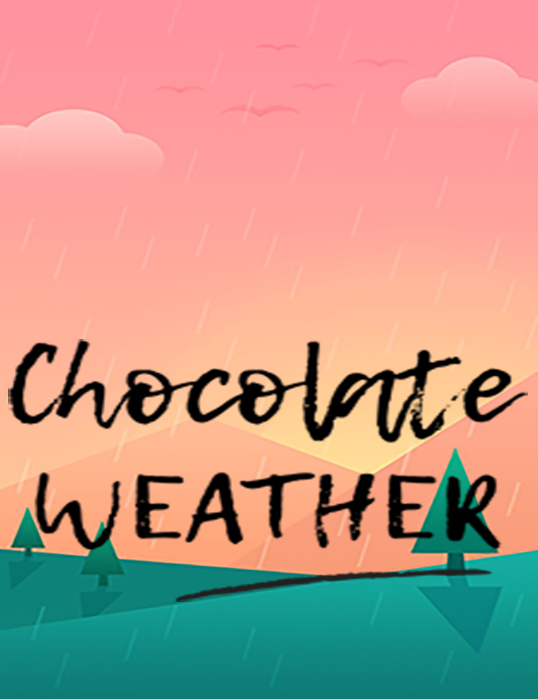
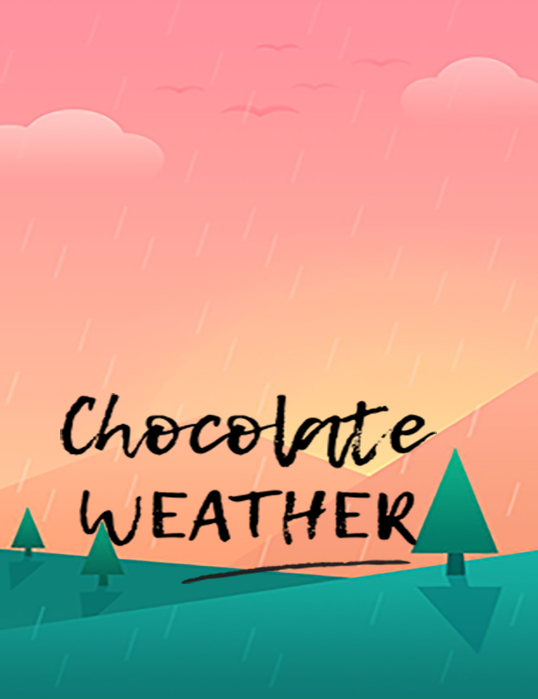
The desing works now

Changed region(s): [[0.0, 0.4807, 0.9814, 0.8712]]

diff --git a/src/components/weather.js b/src/components/weather.js
@@ -4,23 +4,28 @@ class Weather extends React.Component{
     render(){
 
         let chocolateMsg;
-        if(this.props.clouds < 5){
+        if(this.props.clouds === 0){
             chocolateMsg = "This is a miracle. You will see the sun! Let's eat chocolate to celebrate";
+        } else if(this.props.clouds < 5){
+            chocolateMsg = "What do you expect? Let's grab some chocolate to feel better";
         } else{
             chocolateMsg = "What do you expect? It's cloudy and cold. Let's grab some chocolate to feel better";
         }
 
         return(
 
-        <div>
+        <div className="weather__info">
 
-        {this.props.city && this.props.country && <p>Location: {this.props.city}</p>}
+        {
+            this.props.city && this.props.country && <p className="weather__key"> Location: 
+            <span className="weather__value"> { this.props.city }, { this.props.country }</span>
+            </p> 
+
+        }
         
         {this.props.temperature && <p>Temperature: {this.props.temperature}</p>}
         
         {this.props.description && <p>Conditions: {this.props.description}</p>}
-
-        {this.props.clouds && <p>{this.props.clouds}</p>}
 
         {this.props.clouds && <p>{chocolateMsg}</p>}
         

diff --git a/src/App.css b/src/App.css
@@ -87,5 +87,12 @@ button {
   font-weight: 100;
 }
 
+.weather__info {
+  width: 60%;
+  font-weight: 200;
+  max-width: 300px;
+  margin-top: 30px;
+}
+
 
 

diff --git a/README.md b/README.md
@@ -1,0 +1,1 @@
+Do you need to know the weather? This API give you the weather and permission for chocolate
